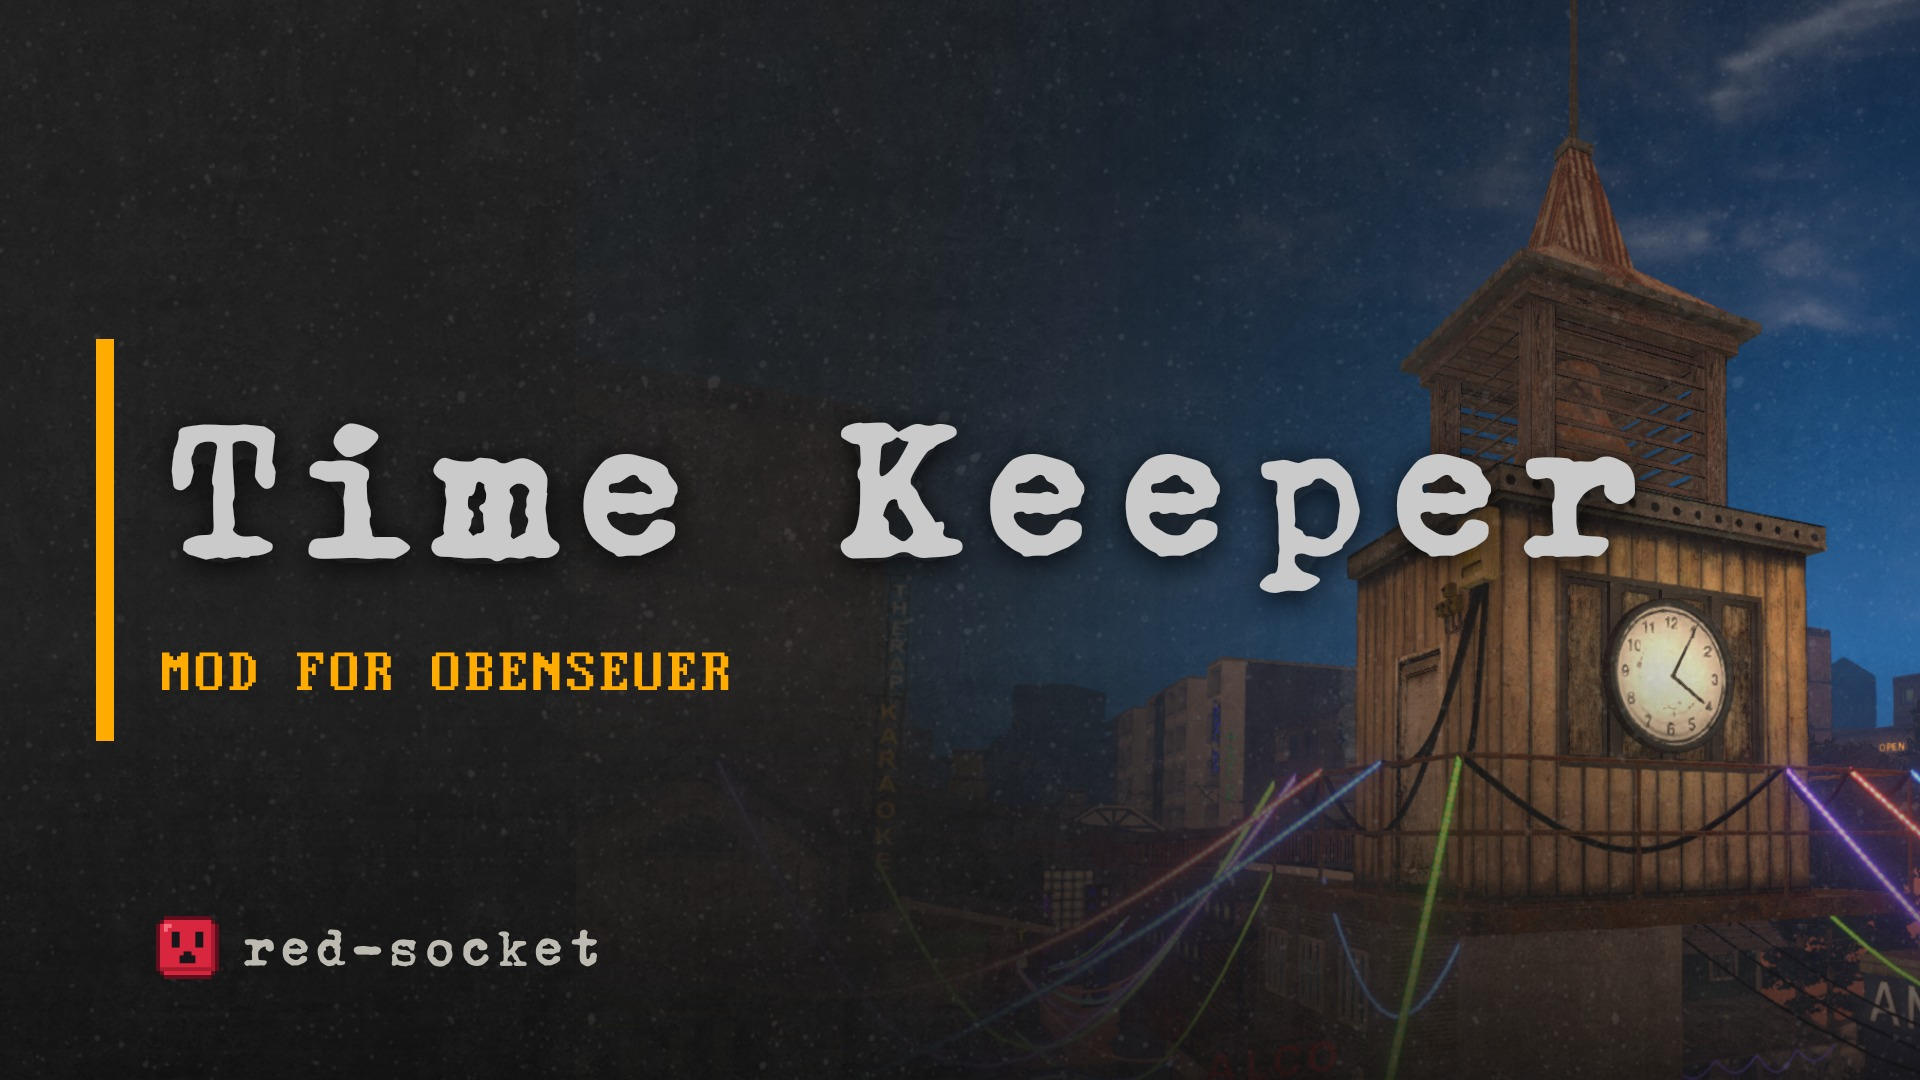
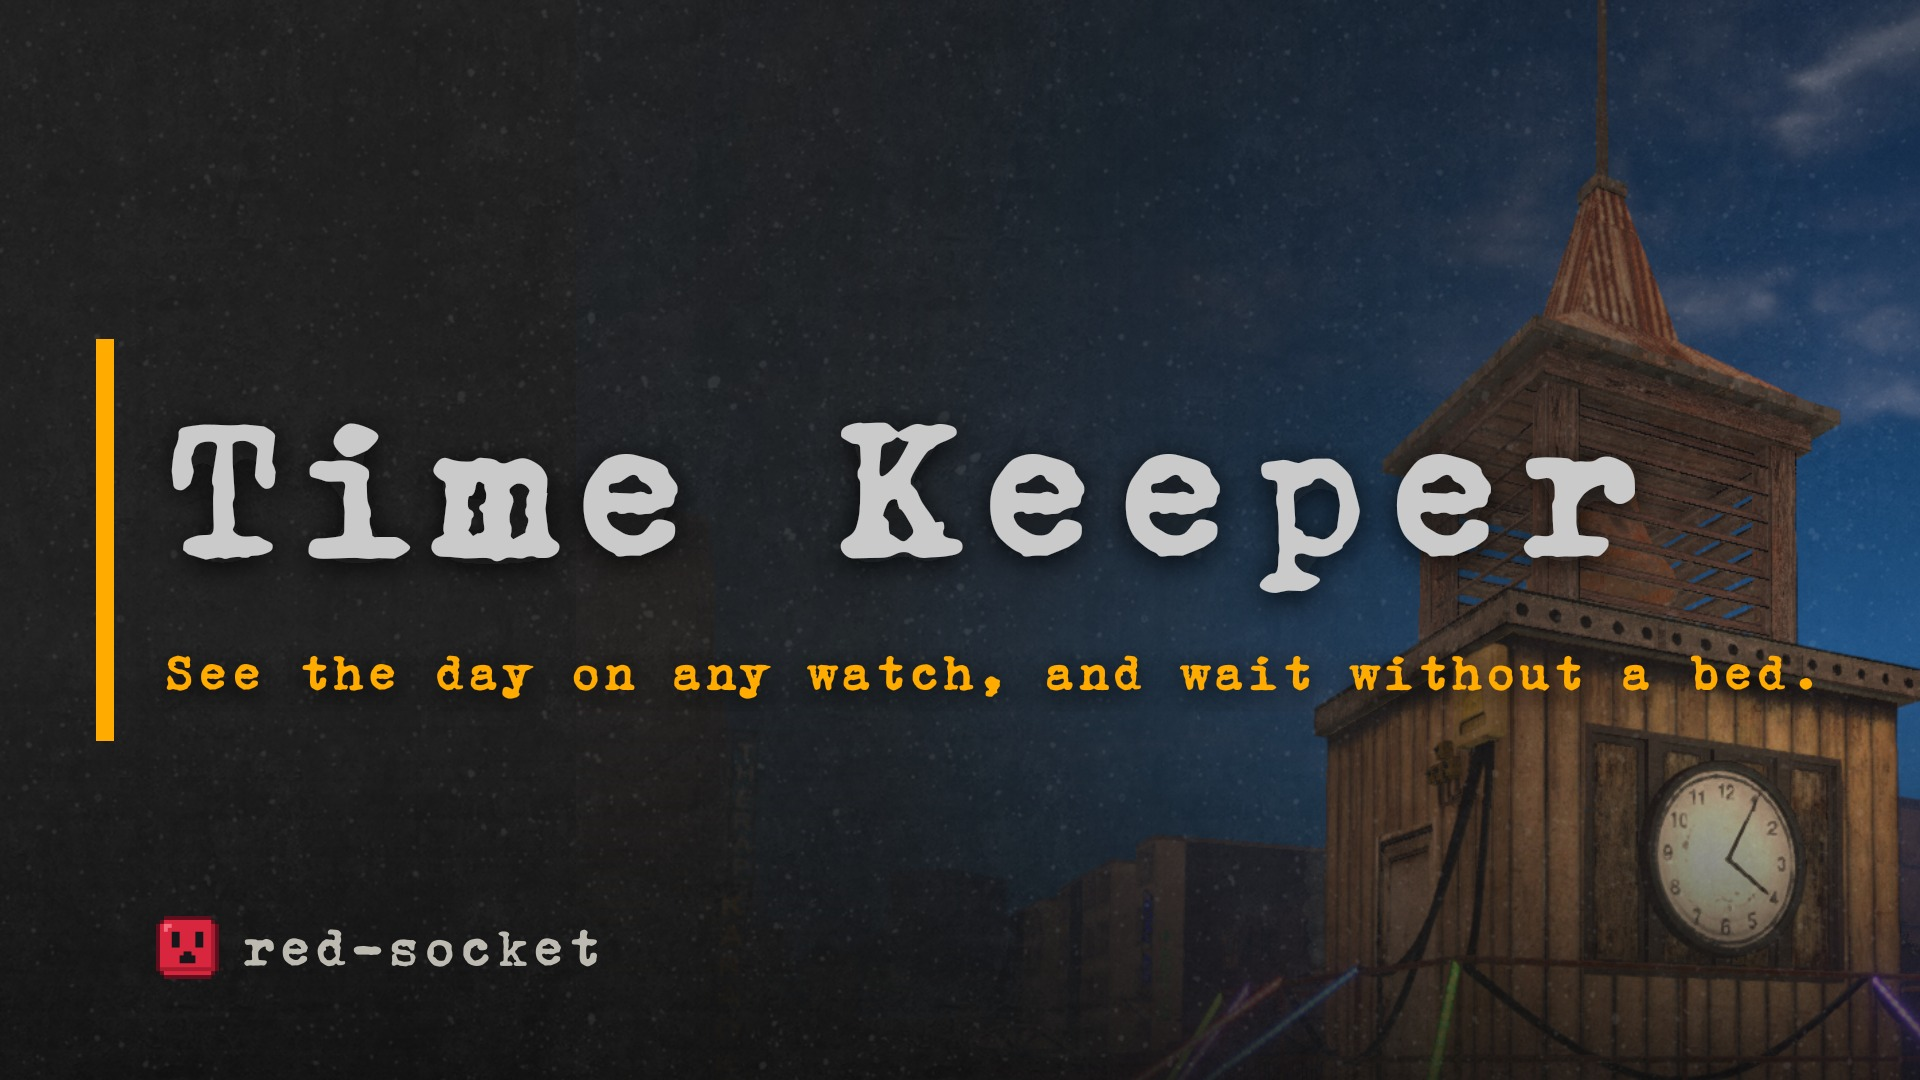
docs(TimeKeeper): re-crop the thumbnail so the clock sits below the tagline

diff --git a/mods/TimeKeeper/art/NOTES.md b/mods/TimeKeeper/art/NOTES.md
@@ -31,7 +31,8 @@ Tagline: "See the day on any watch, and wait without a bed." The tagline shorten
 
 | File | Derived from |
 |---|---|
-| `header.jpg`, `thumbnail.jpg` | `tk-key.png`: `Screenshot From 2026-11-16 05-25-29.png` (the Bazaar clock tower at dusk, HUD hidden) cropped with `magick in.png -crop 1271x1022+337+0`, which puts the tower right of the thumbnail title and the clock face below it |
+| `header.jpg` | `tk-key-header.png`: `Screenshot From 2026-11-16 05-25-29.png` (the Bazaar clock tower at dusk, HUD hidden) cropped with `magick in.png -crop 1271x1022+337+0` (the approved 2026-11-16 key shot; the header's middle band keeps the clock face) |
+| `thumbnail.jpg` | `tk-key.png`: the same screenshot cropped `1000x804+517+0` (2026-11-17), which drops the clock face below the tagline that replaced the MOD FOR OBENSEUER kicker |
 | `gallery-01.jpg` | `tk-weekday.png`: `Screenshot From 2026-11-16 05-27-22.png` cropped to the top-right quarter (`-crop 1280x720+1280+0`) so the HUD clock "Monday 15:19" is readable |
 | `gallery-02.jpg` | `tk-wait.png`: `Screenshot From 2026-11-16 05-28-15.png` cropped around the waiting clock (`-crop 1440x810+560+480`) |
 | `gallery-03.jpg` | `tk-blocked.png`: `Screenshot From 2026-11-16 05-28-41.png` cropped to the top-left quarter (`-crop 1280x720+0+0`) with the "Too hungry to wait." note |
